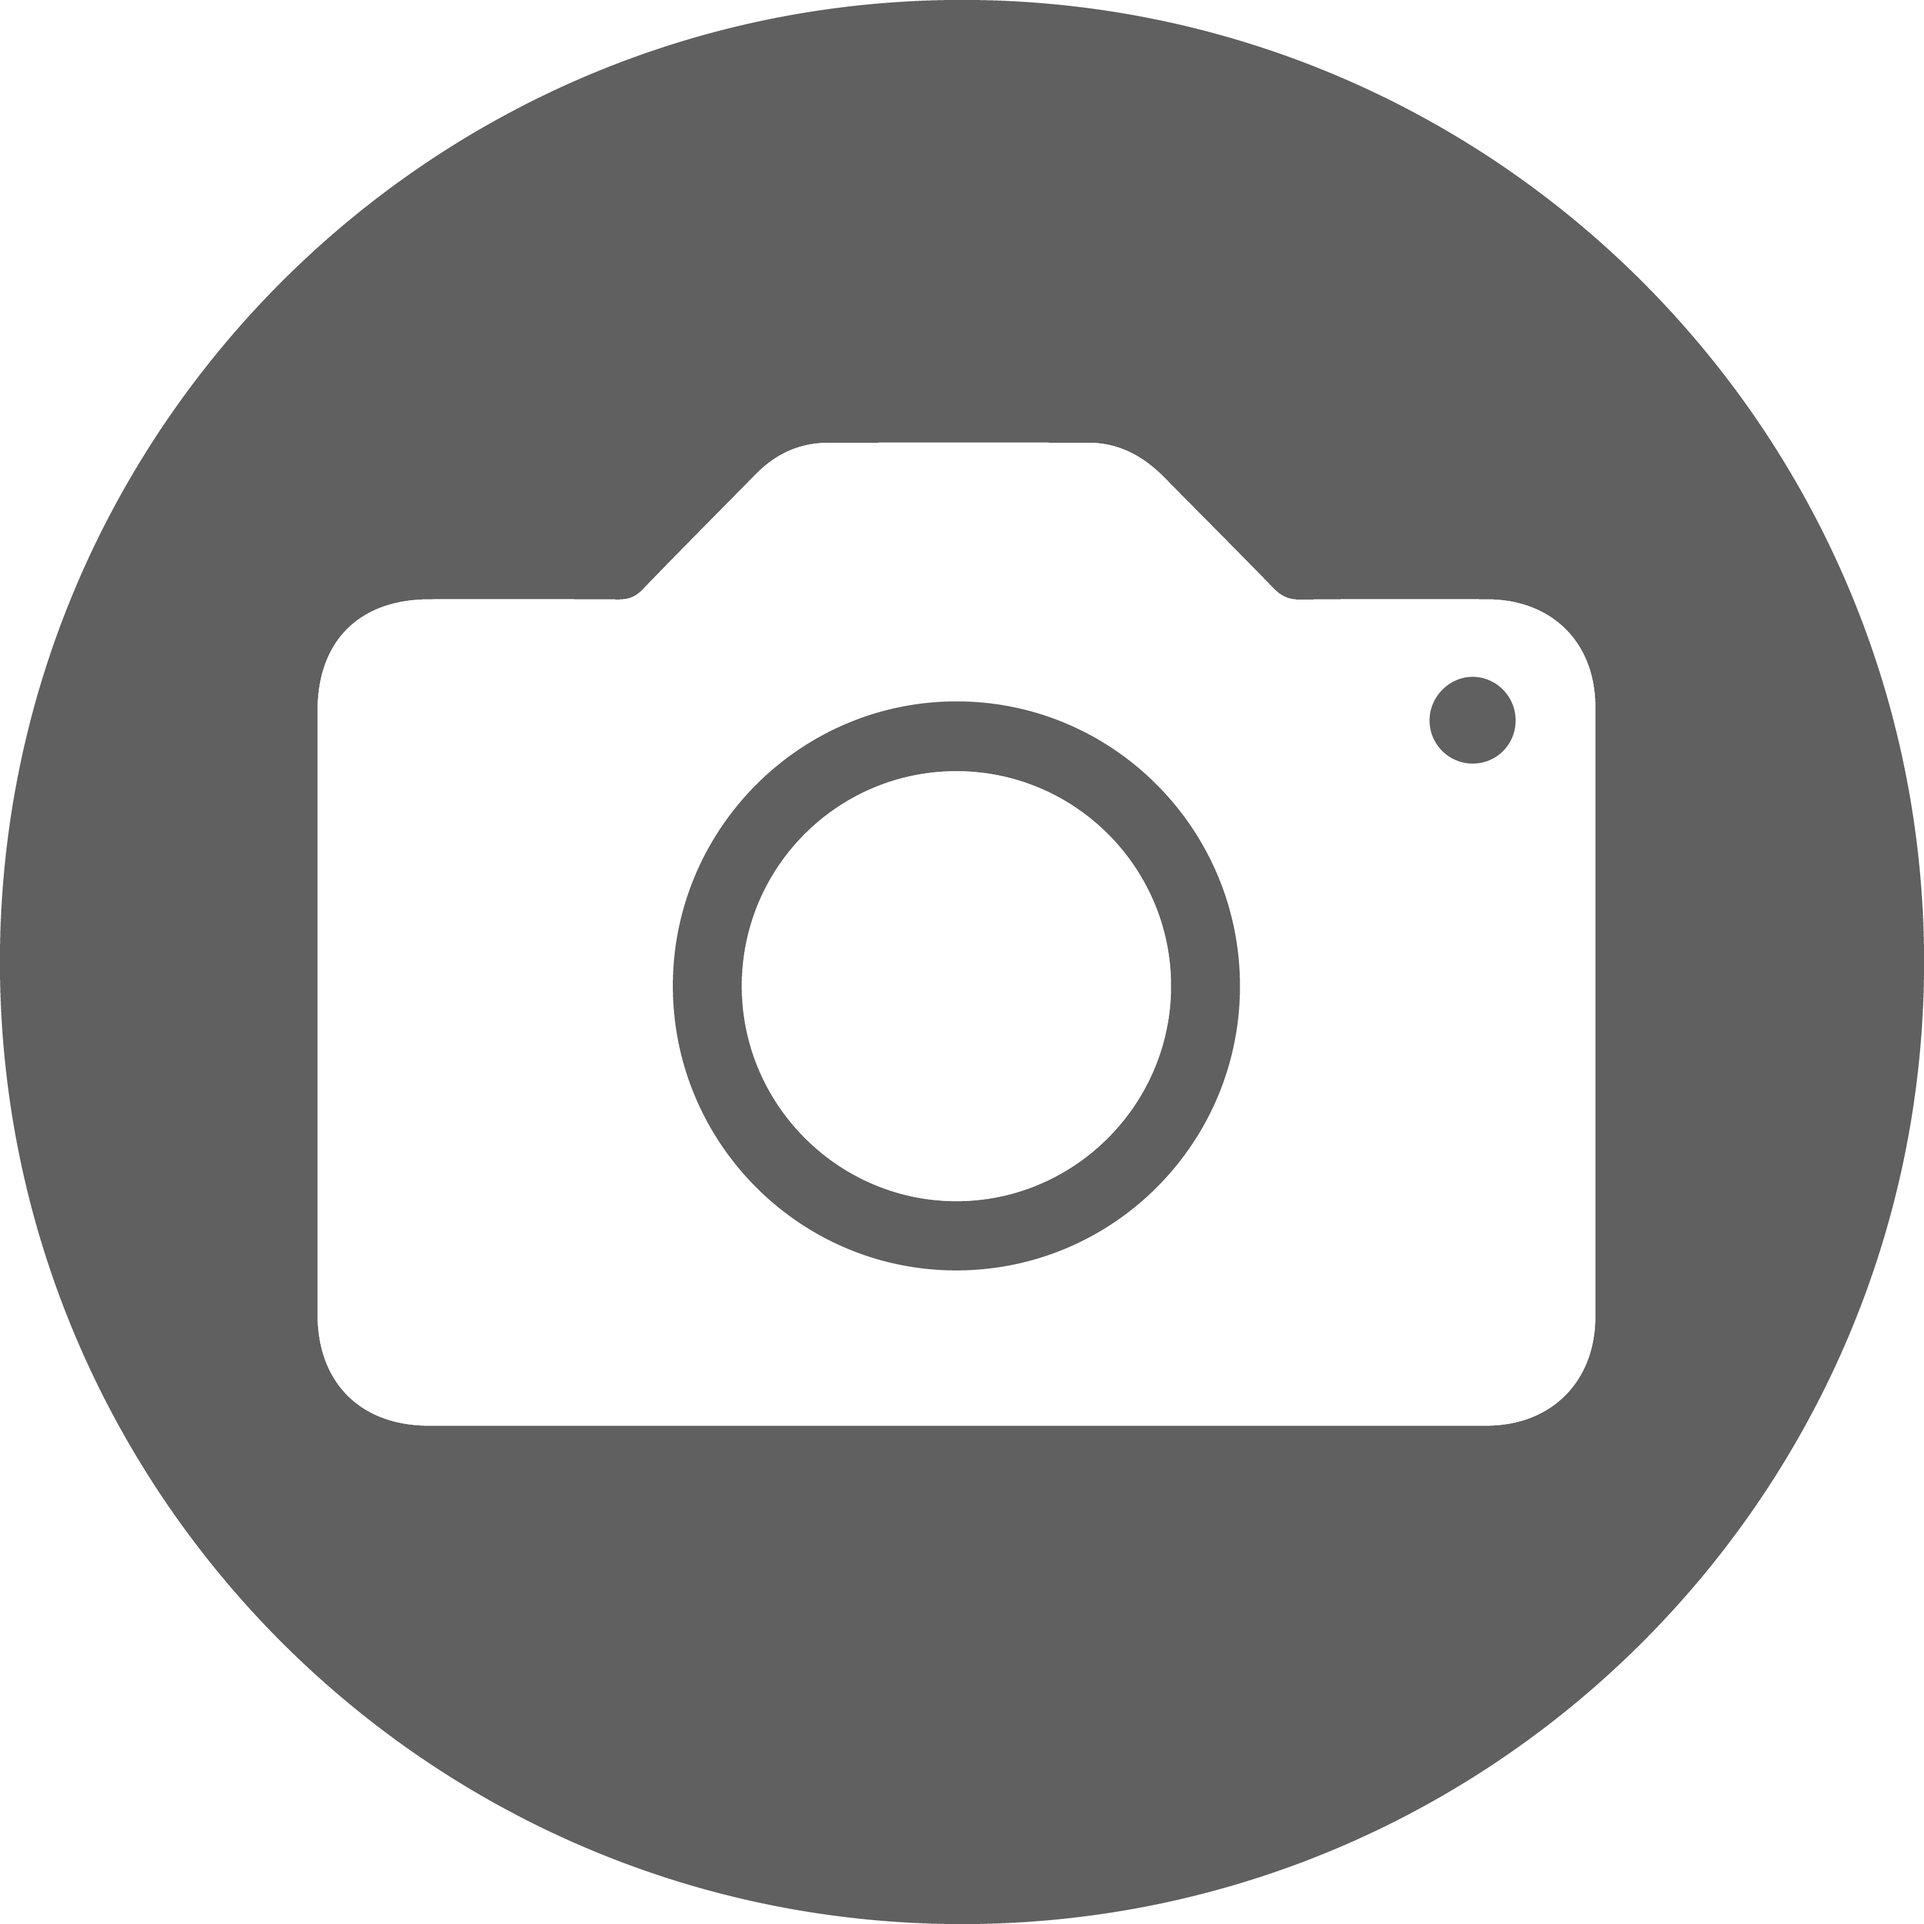
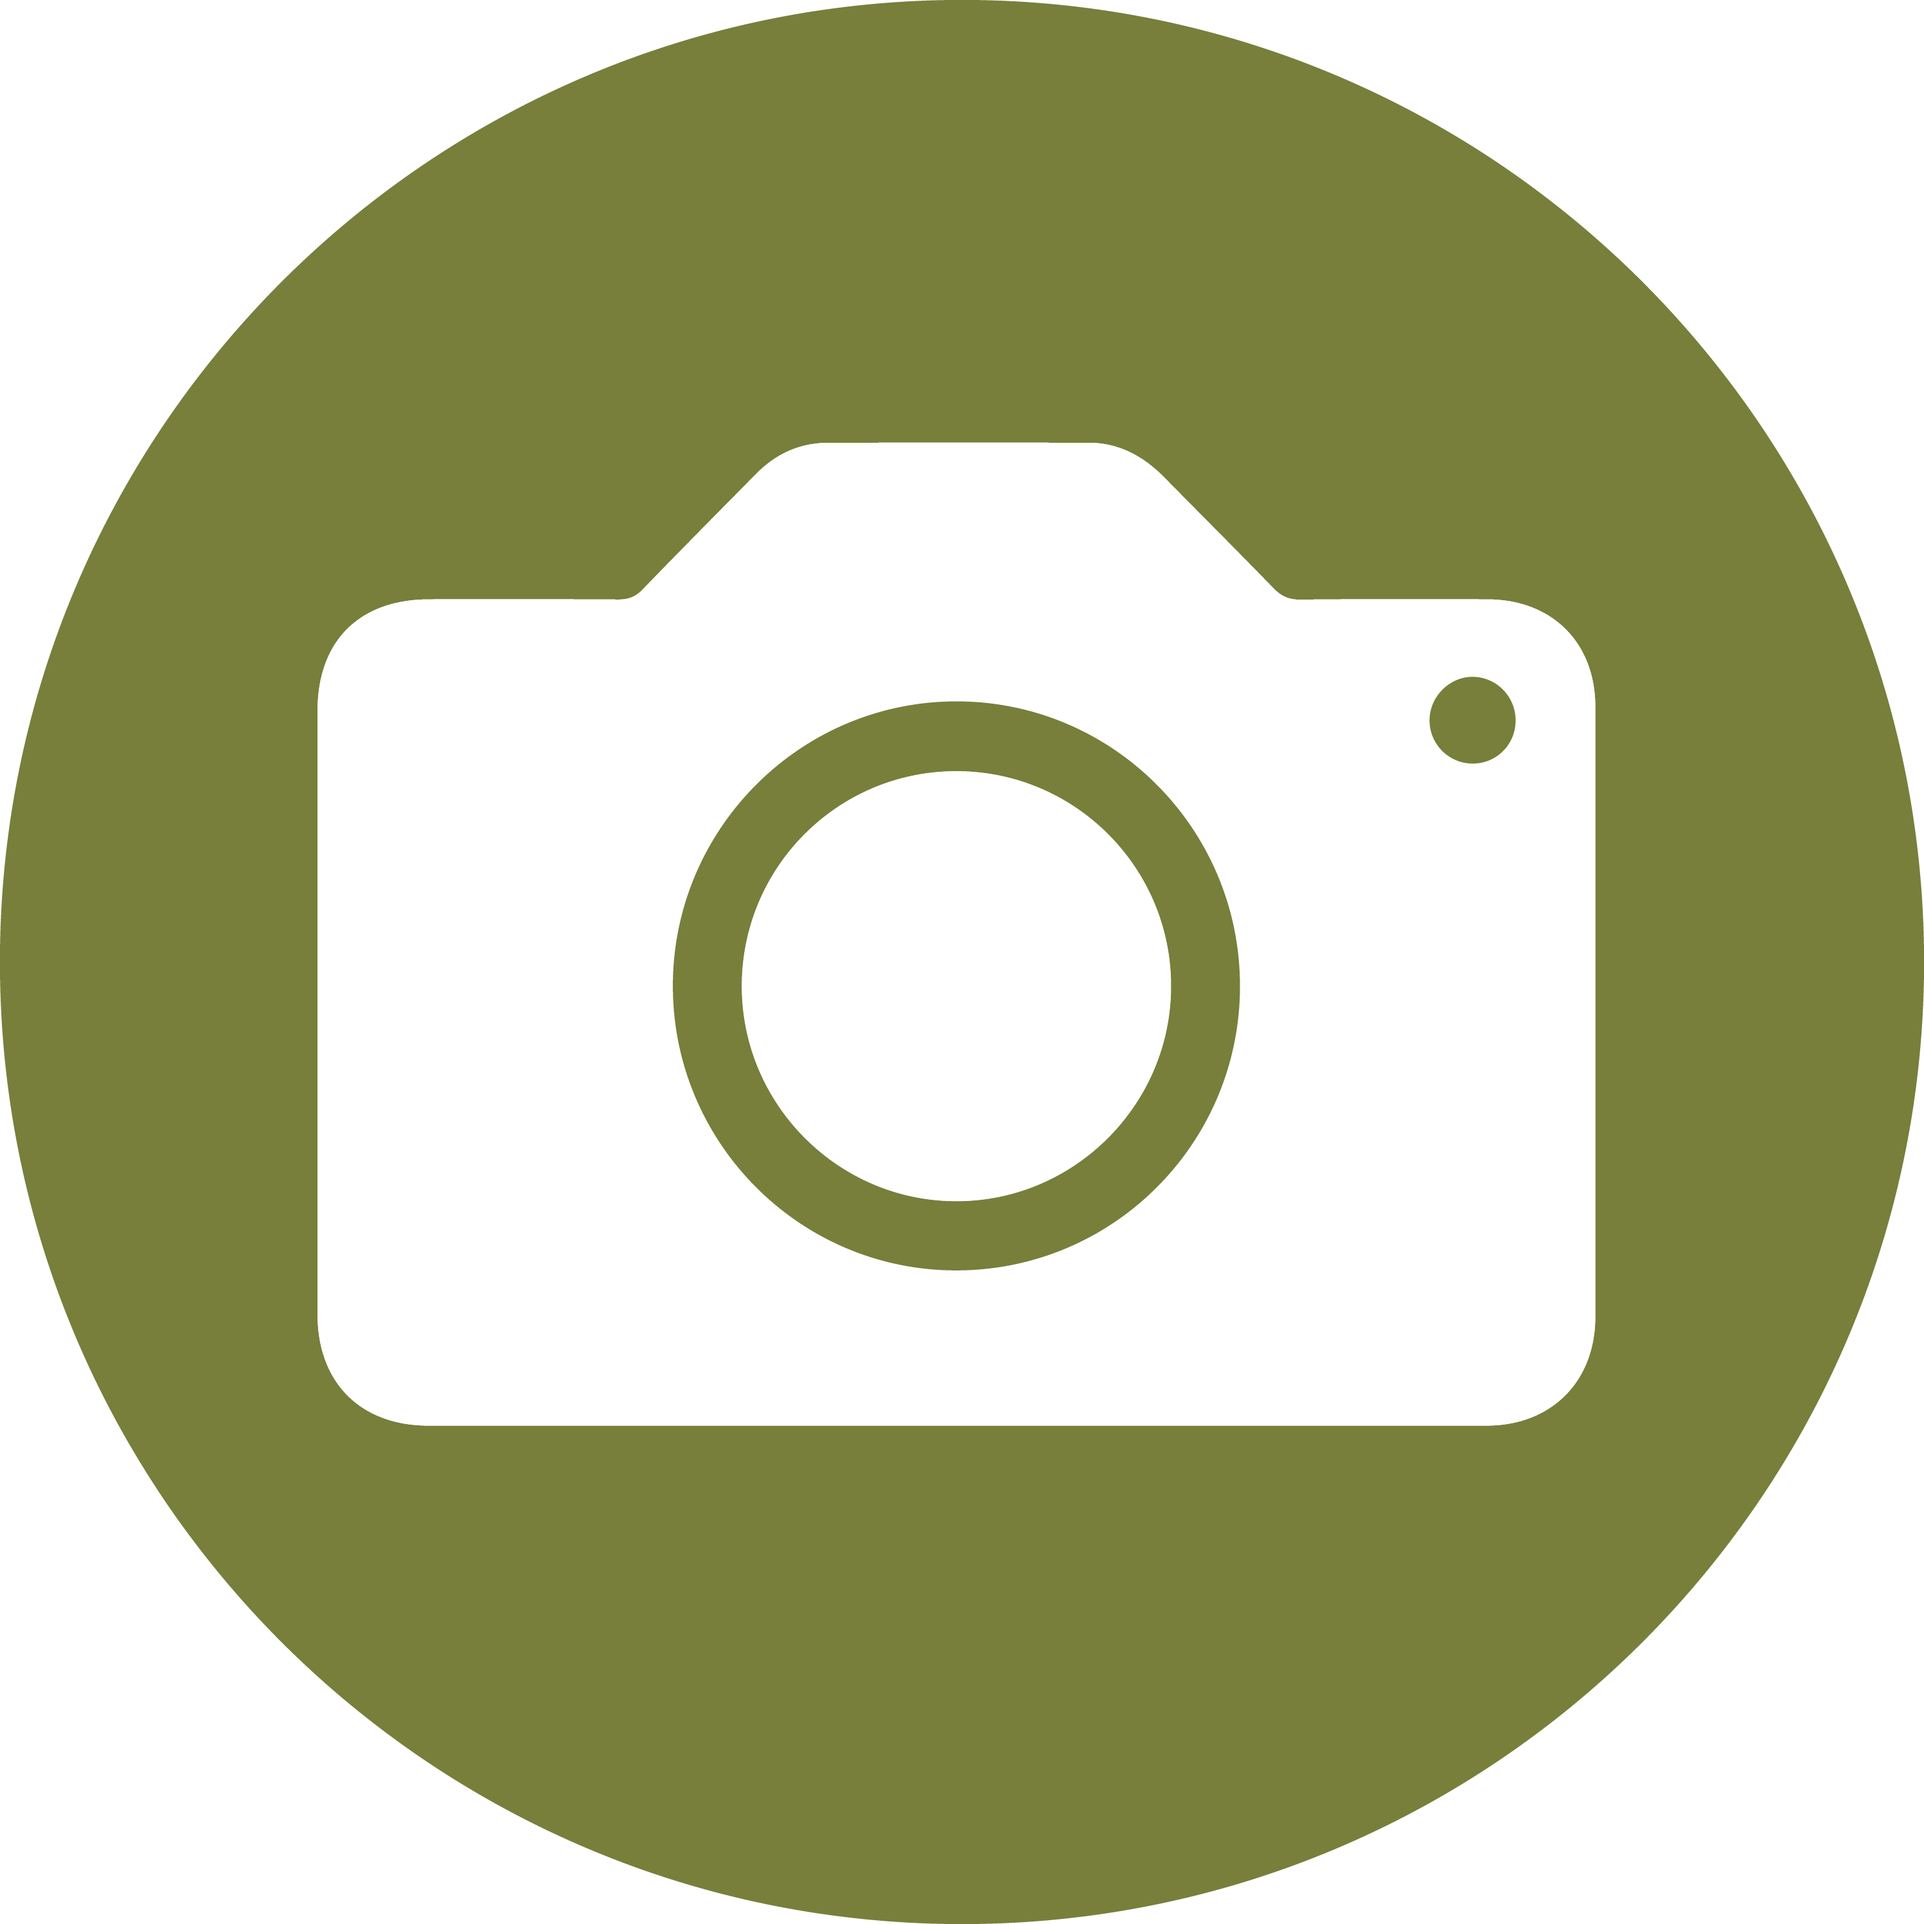
better buttons, styled right

diff --git a/UI/src/containers/Home.js b/UI/src/containers/Home.js
@@ -6,6 +6,9 @@ import { connect } from 'react-redux';
 import * as albumActions from '../redux/actions/albumActions.js';
 import * as homeActions from '../redux/actions/homeActions.js';
 import * as loginActions from '../redux/actions/loginActions.js';
+import meal from '../styles/meal.png';
+import plane from '../styles/plane.png';
+import camera from '../styles/camera.png';
 
 //Selector has deteailed links to pages
 import Selector from '../components/Home/Selector';
@@ -31,9 +34,9 @@ class Home extends Component {
         <div className="botpage">
           <div className="container marketing">
             <div className="row">
-              <Selector title='Meal Calendar' to='/mealplan'/>
-              <Selector title='Vacation Planning' to='/vacations'/>
-              <Selector title='Photo Gallery' to='/photoalbum' />
+              <Selector title='Meal Calendar' to='/mealplan' photos={meal}/>
+              <Selector title='Vacation Planning' to='/vacations' photos={plane}/>
+              <Selector title='Photo Gallery' to='/photoalbum' photos={camera}/>
             </div>
             <hr className="featurette-divider" />
           </div>

diff --git a/UI/src/components/Home/Selector.js b/UI/src/components/Home/Selector.js
@@ -12,17 +12,11 @@ export default class Selector extends Component {
   render() {
     const title = this.props.title ? this.props.title : null;
     const photo = this.props.photo ? this.props.photo : null;
+    const photos = this.props.photos ? this.props.photos : null;
 
     return (
       <div className="col-lg-4">
-        <svg className="bd-placeholder-img rounded-circle" width="140"
-          height="140" xmlns="http://www.w3.org/2000/svg"
-          preserveAspectRatio="xMidYMid slice" focusable="false"
-          role="img" aria-label="Placeholder: 140x140">
-          <title>Placeholder</title>
-          <rect width="100%" height="100%" fill="#777" />
-          <text x="50%" y="50%" fill="#777" dy=".3em">140x140</text>
-        </svg>
+        <img src={photos} alt="plane" height="140px" width="140px"/>
         <h2>{title}</h2>
         <p>
           <Link className="btn btn-secondary" to={this.props.to} role="button">

diff --git a/UI/src/styles/index.css b/UI/src/styles/index.css
@@ -228,8 +228,8 @@ body {
   font-size: 1rem;
   transform: translate(-50%, -50%);
   background-color: #877f65;
-  padding-left: 51px;
-  padding-right: 51px;
+  padding-left: 91px;
+  padding-right: 91px;
   padding-bottom: 20px;
   padding-top: 20px;
   margin-top: 20px;
